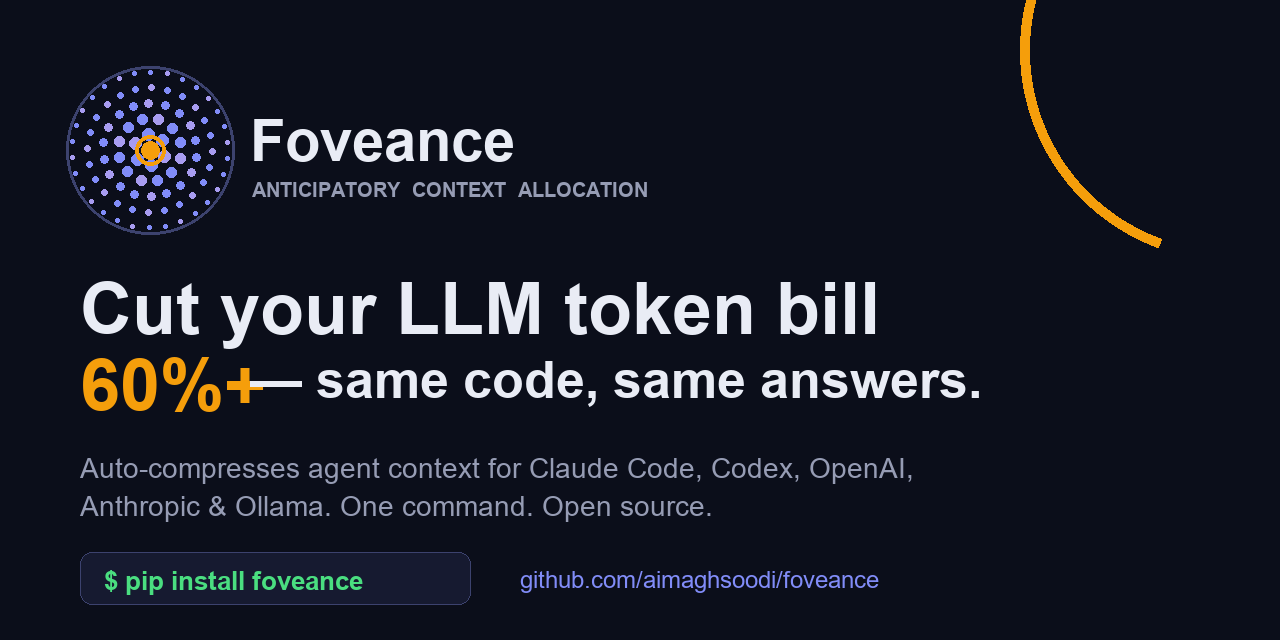
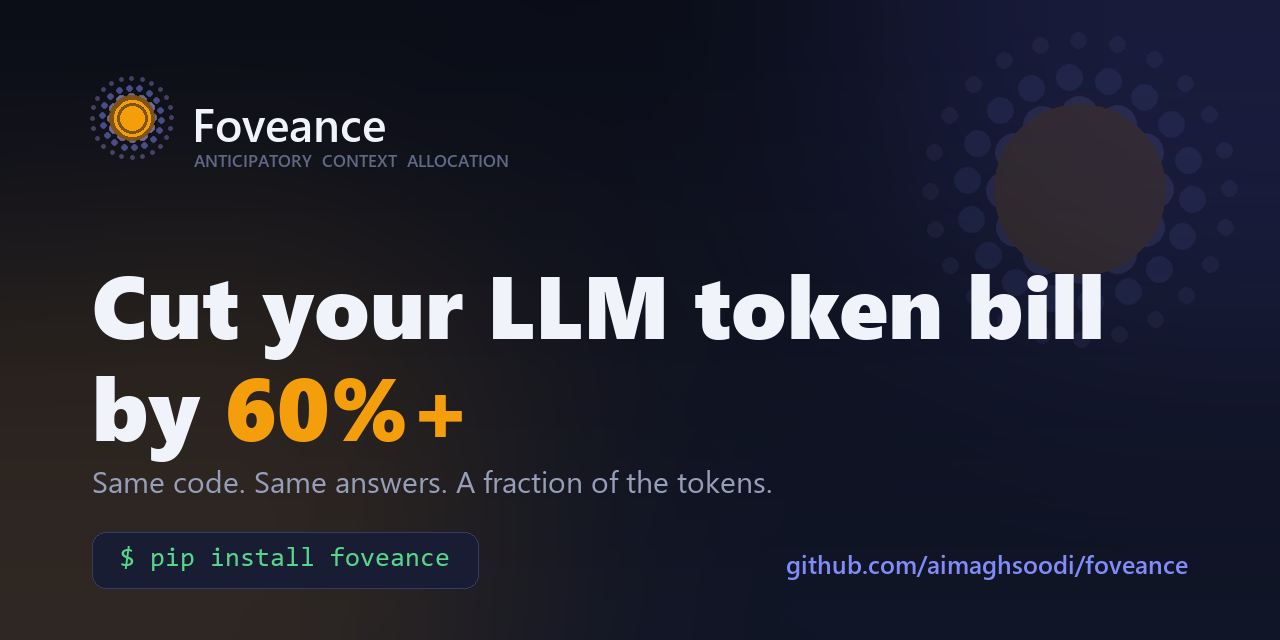
Redesign social-share card: cleaner type, depth glow, refined mark

diff --git a/scripts/make_social_card.py b/scripts/make_social_card.py
@@ -1,78 +1,147 @@
 #!/usr/bin/env python3
-"""Render assets/social-card.png — the 1280x640 image GitHub/LinkedIn/Twitter/Slack show when the
-repo link is shared. Matches the logo palette. Requires Pillow: pip install pillow."""
+"""Render assets/social-card.png — the 1280x640 image GitHub/LinkedIn/X/Slack show when the repo
+link is shared. Clean, high-contrast, on-brand. Requires Pillow: pip install pillow."""
 from __future__ import annotations
 
 import math
 import os
 
-from PIL import Image, ImageDraw, ImageFont
+from PIL import Image, ImageDraw, ImageFilter, ImageFont
 
 HERE = os.path.dirname(os.path.abspath(__file__))
 OUT = os.path.normpath(os.path.join(HERE, "..", "assets", "social-card.png"))
 
 W, H = 1280, 640
-BG = (11, 14, 26)
-INK = (233, 236, 245)
-DIM = (150, 156, 180)
+INK = (240, 243, 250)
+DIM = (150, 158, 184)
+FAINT = (95, 104, 134)
 AMBER = (245, 158, 11)
 INDIGO = (129, 140, 248)
-GREEN = (74, 222, 128)
+GREEN = (86, 214, 140)
+CARD = (24, 29, 52)
+MARGIN = 92
+
+FONTDIR = r"C:\Windows\Fonts"
 
 
-def font(size, bold=True):
-    names = (["arialbd.ttf", "seguisb.ttf", "DejaVuSans-Bold.ttf"] if bold
-             else ["arial.ttf", "segoeui.ttf", "DejaVuSans.ttf"])
-    for n in names:
-        try:
-            return ImageFont.truetype(n, size)
-        except OSError:
-            continue
+def font(px, weight="regular"):
+    files = {
+        "black": ["seguibl.ttf", "ariblk.ttf", "arialbd.ttf", "DejaVuSans-Bold.ttf"],
+        "semibold": ["seguisb.ttf", "arialbd.ttf", "DejaVuSans-Bold.ttf"],
+        "regular": ["segoeui.ttf", "arial.ttf", "DejaVuSans.ttf"],
+        "mono": ["consola.ttf", "cour.ttf", "DejaVuSansMono.ttf"],
+    }[weight]
+    for f in files:
+        for path in (os.path.join(FONTDIR, f), f):
+            try:
+                return ImageFont.truetype(path, px)
+            except OSError:
+                continue
     return ImageFont.load_default()
 
 
-def foveated_icon(d, cx, cy, r):
-    """The logo's foveated-gaze motif: concentric rings of dots, dense amber core."""
-    rng = 0
-    for ring in range(1, 6):
-        rad = r * ring / 5.0
+def w_of(d, text, fnt):
+    return d.textlength(text, font=fnt)
+
+
+def background():
+    """Vertical gradient with a soft amber+indigo radial glow behind the headline."""
+    top, bot = (10, 13, 24), (17, 22, 40)
+    base = Image.new("RGB", (W, H))
+    px = base.load()
+    for y in range(H):
+        t = y / H
+        px_row = tuple(int(top[i] + (bot[i] - top[i]) * t) for i in range(3))
+        for x in range(W):
+            px[x, y] = px_row
+    # glow layer
+    glow = Image.new("RGBA", (W, H), (0, 0, 0, 0))
+    gd = ImageDraw.Draw(glow)
+    gd.ellipse([-160, 120, 620, 760], fill=(245, 158, 11, 34))     # amber, lower-left
+    gd.ellipse([760, -220, 1500, 440], fill=(99, 102, 241, 40))    # indigo, upper-right
+    glow = glow.filter(ImageFilter.GaussianBlur(150))
+    base = Image.alpha_composite(base.convert("RGBA"), glow)
+    return base.convert("RGB")
+
+
+def mark(img, cx, cy, r, faint=False):
+    """Refined foveation mark: evenly-spaced dot rings fading outward, glowing amber core."""
+    layer = Image.new("RGBA", img.size, (0, 0, 0, 0))
+    d = ImageDraw.Draw(layer)
+    rings = 4
+    for ring in range(rings, 0, -1):
+        rad = r * ring / rings
         n = 6 * ring
+        alpha = int((230 if not faint else 42) * (1.02 - 0.16 * ring))
+        dot = max(2, int((r / 26) * (rings - ring + 1.4)))
+        col = INDIGO if ring % 2 else (168, 158, 240)
         for k in range(n):
-            a = 2 * math.pi * k / n + ring * 0.4
-            x = cx + rad * math.cos(a)
-            y = cy + rad * math.sin(a)
-            dot = max(2, int(7 - ring))
-            shade = INDIGO if (rng + k) % 3 else (168, 156, 240)
-            d.ellipse([x - dot, y - dot, x + dot, y + dot], fill=shade)
-        rng += 1
-    d.ellipse([cx - r - 6, cy - r - 6, cx + r + 6, cy + r + 6], outline=(60, 66, 110), width=3)
-    d.ellipse([cx - 15, cy - 15, cx + 15, cy + 15], outline=AMBER, width=4)
-    d.ellipse([cx - 9, cy - 9, cx + 9, cy + 9], fill=AMBER)
+            a = 2 * math.pi * k / n + ring * 0.26
+            x, y = cx + rad * math.cos(a), cy + rad * math.sin(a)
+            d.ellipse([x - dot, y - dot, x + dot, y + dot], fill=col + (alpha,))
+    # soft amber core glow
+    core = int(r * 0.30)
+    ga = 120 if not faint else 30
+    d.ellipse([cx - core * 1.9, cy - core * 1.9, cx + core * 1.9, cy + core * 1.9],
+              fill=AMBER + (ga,))
+    img.paste(Image.alpha_composite(img.convert("RGBA"),
+                                    layer.filter(ImageFilter.GaussianBlur(0.4))).convert("RGB"),
+              (0, 0))
+    if not faint:
+        d2 = ImageDraw.Draw(img)
+        d2.ellipse([cx - core, cy - core, cx + core, cy + core], fill=AMBER)
+        d2.ellipse([cx - core - 6, cy - core - 6, cx + core + 6, cy + core + 6],
+                   outline=AMBER, width=3)
+
+
+def fit(d, text, weight, target_px, max_w):
+    fnt = font(target_px, weight)
+    while w_of(d, text, fnt) > max_w and target_px > 24:
+        target_px -= 2
+        fnt = font(target_px, weight)
+    return fnt
 
 
 def main():
-    img = Image.new("RGB", (W, H), BG)
+    img = background()
     d = ImageDraw.Draw(img)
-    # subtle amber arc accent, top-right
-    d.arc([W - 260, -160, W + 160, 260], start=110, end=210, fill=AMBER, width=10)
+    usable = W - 2 * MARGIN
 
-    foveated_icon(d, 150, 150, 78)
-    d.text((250, 108), "Foveance", font=font(58), fill=INK)
-    d.text((252, 178), "ANTICIPATORY  CONTEXT  ALLOCATION", font=font(20), fill=DIM)
+    # faint hero mark, upper-right, for depth
+    mark(img, 1080, 190, 150, faint=True)
+    d = ImageDraw.Draw(img)
 
-    d.text((80, 268), "Cut your LLM token bill", font=font(72), fill=INK)
-    d.text((80, 344), "60%+", font=font(72), fill=AMBER)
-    d.text((250, 350), "— same code, same answers.", font=font(52), fill=INK)
+    # brand row
+    mark(img, MARGIN + 40, 118, 40)
+    d = ImageDraw.Draw(img)
+    d.text((MARGIN + 100, 92), "Foveance", font=font(46, "semibold"), fill=INK)
+    d.text((MARGIN + 102, 148), "ANTICIPATORY  CONTEXT  ALLOCATION", font=font(17, "semibold"),
+           fill=FAINT)
 
-    d.text((80, 452), "Auto-compresses agent context for Claude Code, Codex, OpenAI,",
-           font=font(28, bold=False), fill=DIM)
-    d.text((80, 490), "Anthropic & Ollama. One command. Open source.",
-           font=font(28, bold=False), fill=DIM)
+    # headline
+    h1 = fit(d, "Cut your LLM token bill", "black", 88, usable)
+    d.text((MARGIN, 244), "Cut your LLM token bill", font=h1, fill=INK)
+    y2 = 244 + h1.size + 14
+    by = font(88, "black")
+    d.text((MARGIN, y2), "by ", font=by, fill=INK)
+    d.text((MARGIN + w_of(d, "by ", by), y2), "60%+", font=by, fill=AMBER)
 
-    # install pill
-    d.rounded_rectangle([80, 552, 470, 604], radius=12, fill=(22, 26, 48), outline=(60, 66, 110))
-    d.text((104, 566), "$ pip install foveance", font=font(26), fill=GREEN)
-    d.text((520, 566), "github.com/aimaghsoodi/foveance", font=font(24, bold=False), fill=INDIGO)
+    # subhead
+    d.text((MARGIN, y2 + by.size + 26),
+           "Same code. Same answers. A fraction of the tokens.",
+           font=font(30, "regular"), fill=DIM)
+
+    # bottom row: install pill + repo url on one baseline
+    pill_y = H - 108
+    cmd = "$ pip install foveance"
+    cf = font(27, "mono")
+    pw = int(w_of(d, cmd, cf)) + 56
+    d.rounded_rectangle([MARGIN, pill_y, MARGIN + pw, pill_y + 56], radius=14,
+                        fill=CARD, outline=(52, 60, 96), width=1)
+    d.text((MARGIN + 28, pill_y + 13), cmd, font=cf, fill=GREEN)
+    url = "github.com/aimaghsoodi/foveance"
+    uf = font(25, "semibold")
+    d.text((W - MARGIN - w_of(d, url, uf), pill_y + 15), url, font=uf, fill=INDIGO)
 
     img.save(OUT)
     print("wrote", OUT, img.size)